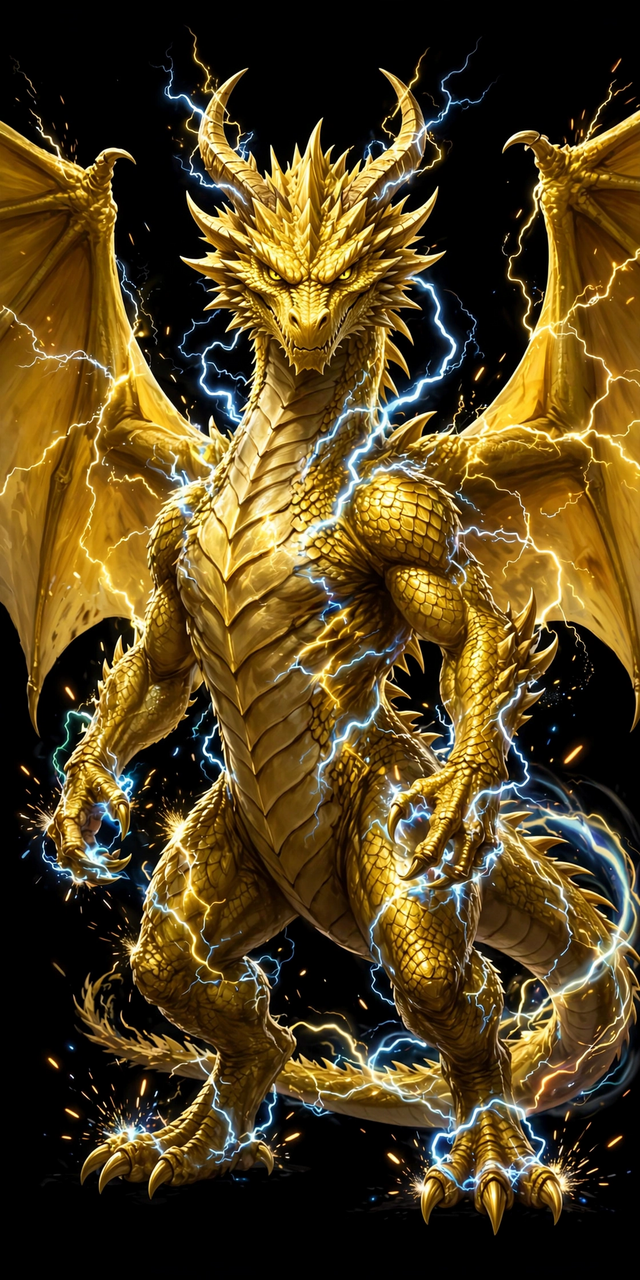
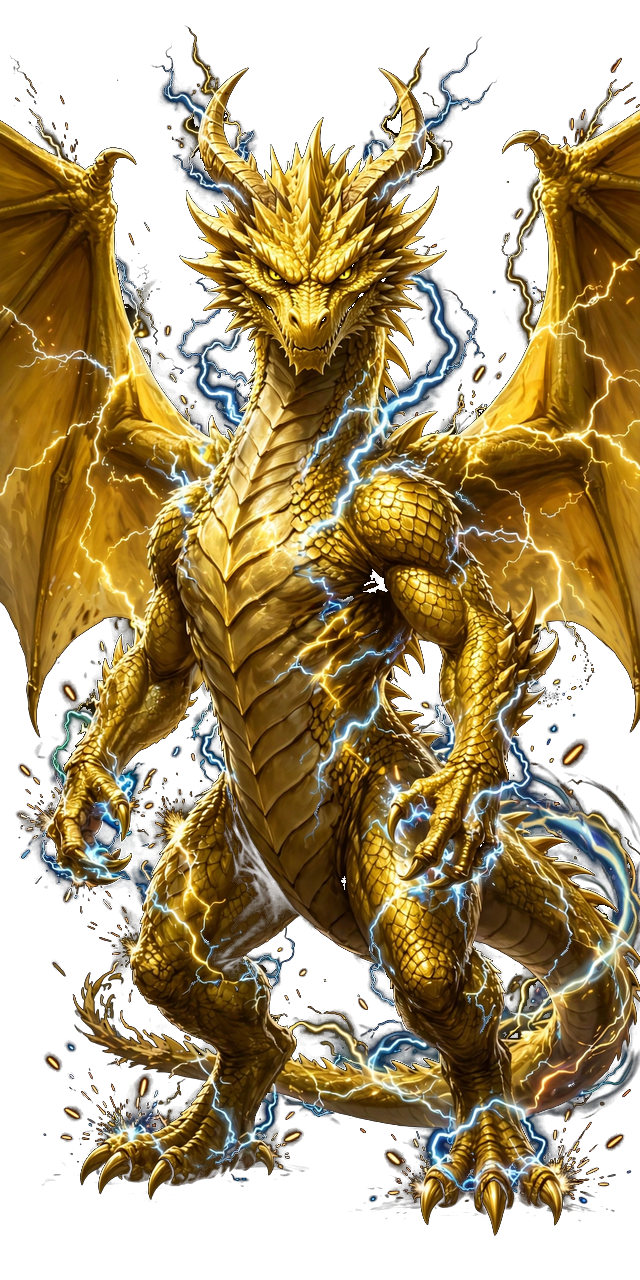
ver 1.0.45: stage thumbnails, transparent Denki Dragon, rank 6

diff --git a/index.html b/index.html
@@ -39,7 +39,14 @@
   .sec-title{font-size:.95rem;font-weight:800;color:var(--sub);margin:.9rem 0 .45rem;}
   .stages{display:grid;grid-template-columns:repeat(5,minmax(0,1fr));gap:.5rem;}
   .stage-btn{position:relative;min-width:0;border-radius:14px;border:2px solid var(--line);background:var(--panel);
-    color:var(--ink);padding:.5rem .05rem .45rem;font-weight:800;font-size:.9rem;line-height:1.25;overflow:visible;}
+    color:var(--ink);padding:.5rem .05rem .45rem;font-weight:800;font-size:.9rem;line-height:1.25;overflow:visible;
+    text-shadow:0 1px 3px rgba(0,0,0,.85);}
+  /* ステージボタンの背景サムネイル：ボタン上部に帯状の画像として必ず表示する
+     （以前はボタンの地に薄く敷くだけで、暗いグラデーションに埋もれて
+     「サムネイルが無い」ように見えた） */
+  .stage-btn .stage-thumb{display:block;height:34px;margin:-.5rem -.05rem .28rem;border-radius:12px 12px 0 0;overflow:hidden;}
+  .stage-btn .stage-thumb img{width:100%;height:100%;object-fit:cover;display:block;}
+  .stage-btn.challenge .stage-thumb,.stage-btn.satan .stage-thumb{height:58px;margin-top:-.65rem;}
   .stage-btn small{display:block;font-size:.58rem;color:var(--sub);font-weight:700;white-space:nowrap;overflow:hidden;text-overflow:ellipsis;}
   .stage-btn.boss{border-color:#ff8a5c;}
   .stage-btn.cleared{border-color:var(--forest);}
@@ -453,7 +460,7 @@ const CHARS = [
     使えば どのステージでも盤面を ひかりだらけにして、ひかり属性の
     仲間（スーパーでんきドラゴン自身とゼウス）の大コンボにつなげられる。
     盤面全部を変える分、たまるまでのターンは長め（7）にした */
- {id:"dragon_light", name:"スーパーでんきドラゴン", attr:"light", atk:46, art:()=>imgArt("dragon-light.png"), passive:"コンボの いりょく +35%", skill:{name:"ぜんぶ ひかりへんげ", desc:"オーブ 全部 → きいろ（ひかり）に かえる", turns:7, type:"changeAll", to:"light"}},
+ {id:"dragon_light", name:"スーパーでんきドラゴン", attr:"light", atk:60, art:()=>imgArt("dragon-light.png"), passive:"コンボの いりょく +35%", skill:{name:"ぜんぶ ひかりへんげ", desc:"オーブ 全部 → きいろ（ひかり）に かえる", turns:7, type:"changeAll", to:"light"}},
  /* ゼウス：チャレンジステージの神。ひかり属性は三すくみの外で、
     対抗の「やみ」属性にだけ強い（やみも ひかりに強い）。
     ひかりオーブはサタンのダンジョンでだけ落ちるので、そこで
@@ -472,7 +479,7 @@ const STAR_RANK = { slime_fire:1, slime_water:1, slime_forest:1,
   fairy_flower:2, fairy_star:2,
   dragon_fire:3, dragon_water:3, dragon_forest:3,
   dragon_change_forest:4, fairy_change_water:4, dragon_change_fire:4,
-  phoenix:5, dragon_sea:5, dragon_light:5, zeus:6, satan:6 };
+  phoenix:5, dragon_sea:5, dragon_light:6, zeus:6, satan:6 };
 CHARS.forEach(c=>{ c.stars = STAR_RANK[c.id] || 1; });
 function starHTML(c){ let s='<span class="stars">'; const slots=Math.max(5,c.stars); for(let i=0;i<slots;i++) s+='<span class="'+(i<c.stars?"on":"off")+'">'+(i<c.stars?"★":"☆")+'</span>'; return s+'</span>'; }
 /* 盤面を 7×7 にしたぶん 1ターンの火力が下がるので、敵HPは
@@ -1265,7 +1272,7 @@ document.getElementById("seBtn").onclick=e=>{ seOn=!seOn; e.target.textContent="
 const $=id=>document.getElementById(id);
 /* バージョン：ホーム画面に小さく常時表示。公開のたびに末尾を+1する
    （1.0.31 → 1.0.32 → ...） */
-const APP_VER="1.0.43";
+const APP_VER="1.0.45";
 /* 限定ステージ（extra）は解放条件なしで最初から選べる。
    チャレンジステージは最終ボス（ステージ8）クリアで出現する */
 function stageUnlocked(st){ if(st.extra) return true; if(st.satan) return save().owned.includes("zeus"); if(st.challenge) return save().cleared.includes(8); if(st.n===1)return true; return save().cleared.includes(st.n-1)||save().cleared.includes(st.n); }
@@ -1281,13 +1288,14 @@ function renderHome(){
     /* ボタンの地にも、そのステージの背景イラストを薄く敷いて、
        入る前から「どんな場所で・誰と戦うか」が合うように見せる */
     const scFile=SCENE_FILE[STAGE_BG[st.n]];
-    if(scFile) b.style.background="linear-gradient(rgba(18,15,44,.64),rgba(18,15,44,.85)),url(assets/"+scFile+") center/cover";
+    if(scFile) b.style.background="linear-gradient(rgba(18,15,44,.34),rgba(18,15,44,.58)),url("+scFile+") center/cover";
+    const thumbHtml=scFile?'<span class="stage-thumb"><img src="'+scFile+'" alt=""></span>':"";
     if(st.satan){
-      b.innerHTML='<span class="crown">👿</span>'+(un?"サタン":"？？？")+"<small>"+(un?"やみ・HP 22000・第1章 最終ボス":"ゼウスを なかまにすると 追加される")+"</small>"+'<span class="orb-drops">'+orbDotsHTML(st)+'</span>';
+      b.innerHTML=thumbHtml+'<span class="crown">👿</span>'+(un?"サタン":"？？？")+"<small>"+(un?"やみ・HP 22000・第1章 最終ボス":"ゼウスを なかまにすると 追加される")+"</small>"+'<span class="orb-drops">'+orbDotsHTML(st)+'</span>';
     } else if(st.challenge){
-      b.innerHTML='<span class="crown">⚡</span>'+(un?"ゼウス":"？？？")+"<small>"+(un?"ひかり・HP 18000・さいきょうの神":"ステージ8 クリアで 出現")+"</small>"+'<span class="orb-drops">'+orbDotsHTML(st)+'</span>';
+      b.innerHTML=thumbHtml+'<span class="crown">⚡</span>'+(un?"ゼウス":"？？？")+"<small>"+(un?"ひかり・HP 18000・さいきょうの神":"ステージ8 クリアで 出現")+"</small>"+'<span class="orb-drops">'+orbDotsHTML(st)+'</span>';
     } else {
-      b.innerHTML=(st.boss?'<span class="crown">👑</span>':"")+(st.disp||st.n)+"<small>"+(un?ATTR[e.attr].name+"・"+e.name:"？？？")+"</small>"+'<span class="orb-drops">'+orbDotsHTML(st)+'</span>';
+      b.innerHTML=thumbHtml+(st.boss?'<span class="crown">👑</span>':"")+(st.disp||st.n)+"<small>"+(un?ATTR[e.attr].name+"・"+e.name:"？？？")+"</small>"+'<span class="orb-drops">'+orbDotsHTML(st)+'</span>';
     }
     b.disabled=!un; b.onclick=()=>startBattle(st);
     $(st.extra?"extraGrid":st.satan?"satanGrid":st.challenge?"challengeGrid":"stageGrid").appendChild(b);

diff --git a/sw.js b/sw.js
@@ -1,4 +1,4 @@
-const CACHE_NAME = 'yuiharuka-puzzle-v43';
+const CACHE_NAME = 'yuiharuka-puzzle-v45';
 const ASSETS = [
   './',
   'index.html',
